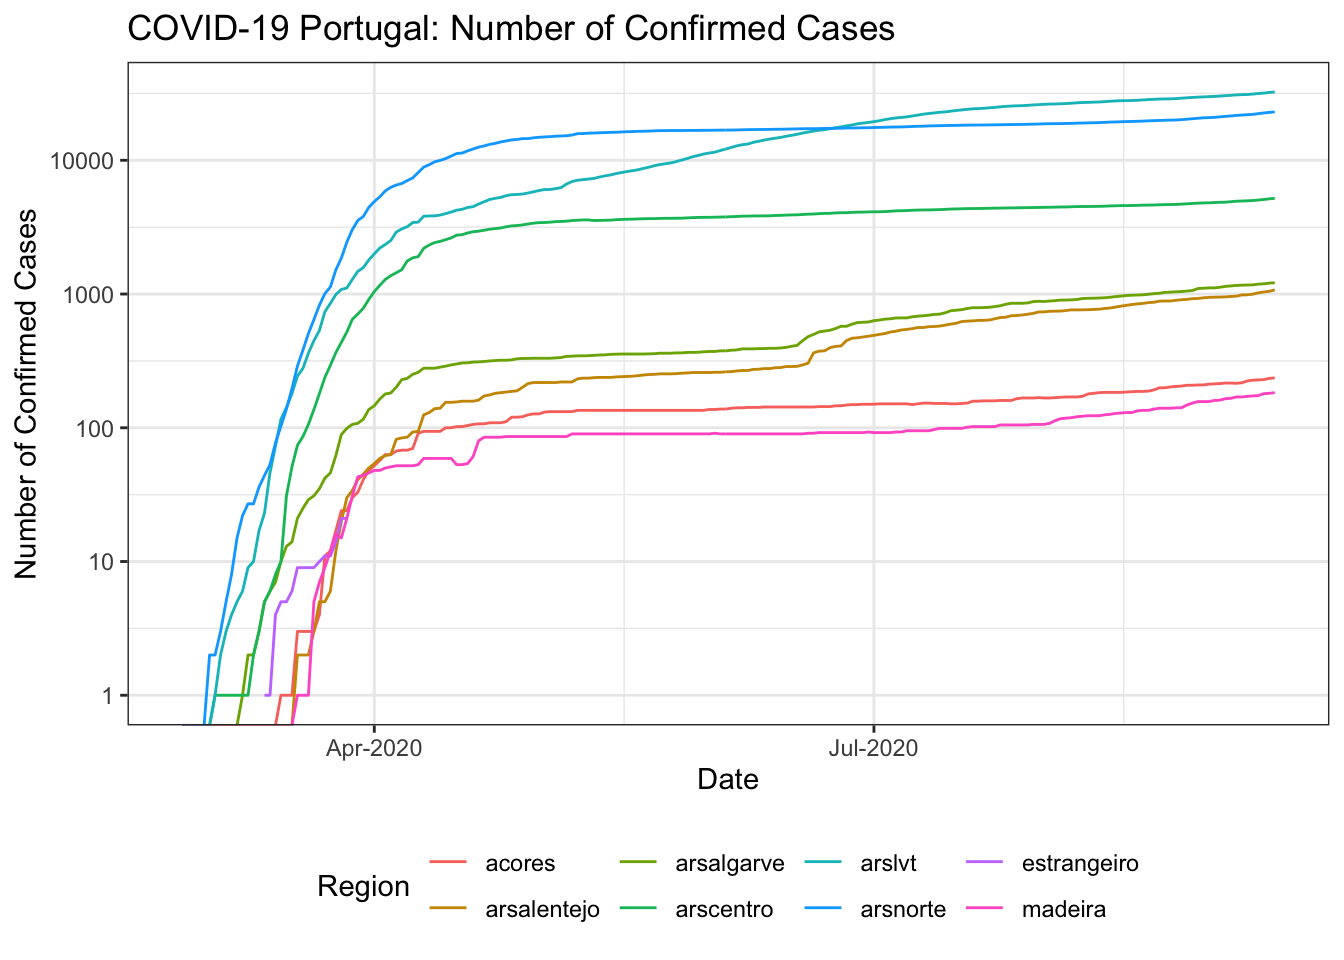
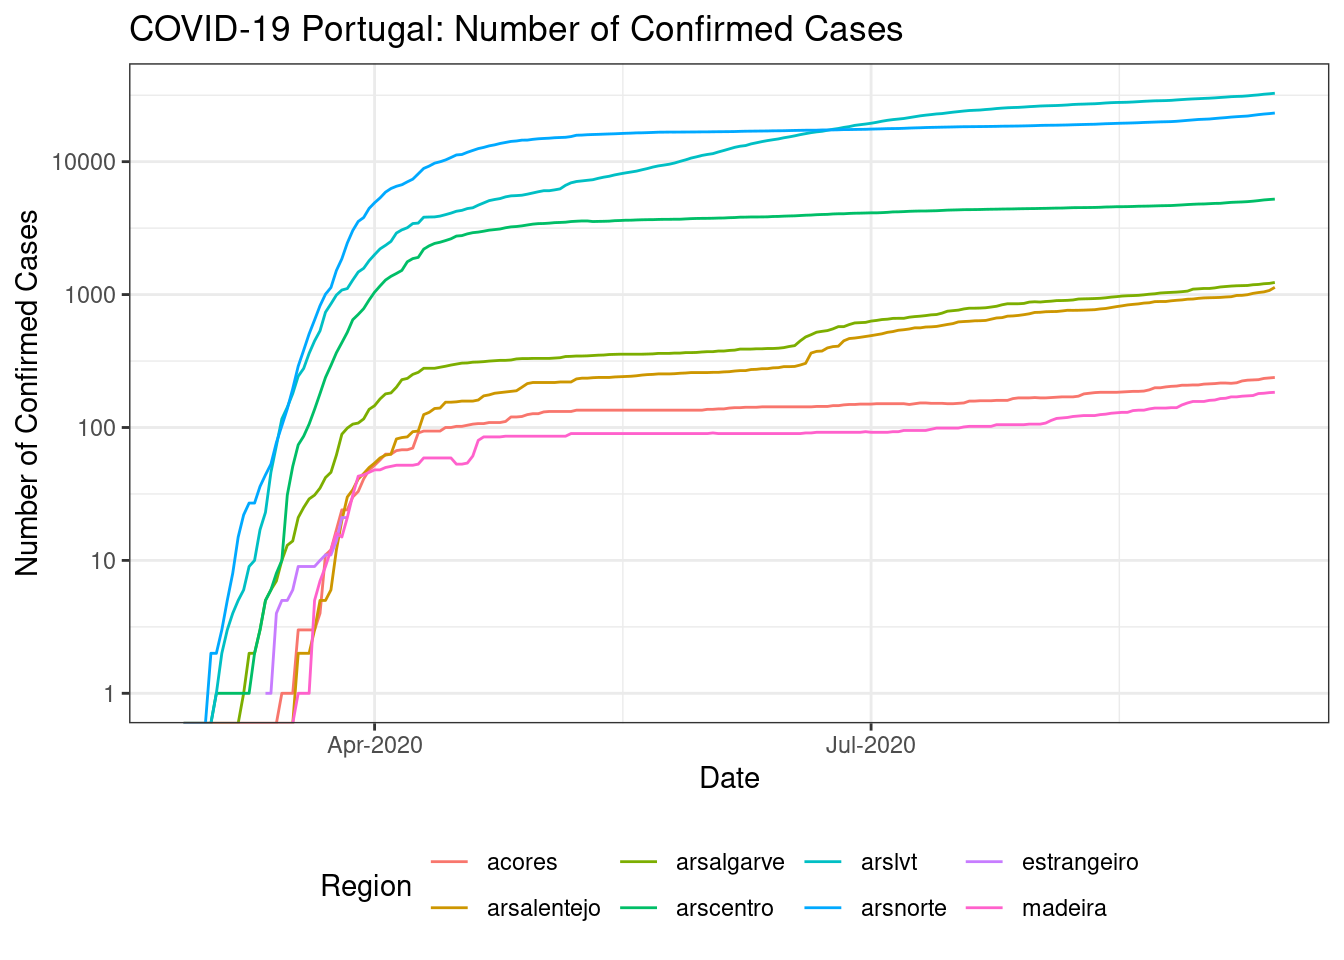
Manuel udpate due to data release delay

diff --git a/README.md b/README.md
@@ -4,9 +4,9 @@ README](https://github.com/CEAUL/Dados_COVID-19_PT/workflows/Render%20README/bad
 
 ## Daily Portuguese COVID-19 Data
 
-**Last updated: Sun 13 Sep 2020 (15:26:39 UTC \[+0000\])**
+**Last updated: Mon 14 Sep 2020 (09:03:03 WEST \[+0100\])**
 
-  - Data available from **26 Feb 2020** until **12 Sep 2020** (200
+  - Data available from **26 Feb 2020** until **13 Sep 2020** (201
     days).
 
 ### Download User Friendly Version
@@ -47,7 +47,6 @@ The original data were downloaded from an API provide by VOST
 
 |            Date | Cases\_7\_Day\_Mean |        Cases |       Active |    Recovered |    Deaths |
 | --------------: | ------------------: | -----------: | -----------: | -----------: | --------: |
-| Thu 03 Sep 2020 |               340.0 | 59051 (+418) | 14795 (+222) | 42427 (+194) | 1829 (+2) |
 | Fri 04 Sep 2020 |               340.4 | 59457 (+406) | 15048 (+253) | 42576 (+149) | 1833 (+4) |
 | Sat 05 Sep 2020 |               356.4 | 59943 (+486) | 15312 (+264) | 42793 (+217) | 1838 (+5) |
 | Sun 06 Sep 2020 |               355.7 | 60258 (+315) | 15465 (+153) | 42953 (+160) | 1840 (+2) |
@@ -57,6 +56,7 @@ The original data were downloaded from an API provide by VOST
 | Thu 10 Sep 2020 |               439.3 | 62126 (+585) | 16833 (+425) | 43441 (+157) | 1852 (+3) |
 | Fri 11 Sep 2020 |               479.4 | 62813 (+687) | 17314 (+481) | 43644 (+203) | 1855 (+3) |
 | Sat 12 Sep 2020 |               481.0 | 63310 (+497) | 17556 (+242) | 43894 (+250) | 1860 (+5) |
+| Sun 13 Sep 2020 |               532.1 | 63983 (+673) | 18047 (+491) | 44069 (+175) | 1867 (+7) |
 
 Change from previous day in brackets.
 
@@ -79,19 +79,19 @@ CV <- fread(here("data", "covid19pt_DSSG_Long.csv"))
 # Looking at the data:
 tail(CV)
 ##          data   origVars   origType other symptoms sex ageGrpLower ageGrpUpper
-## 1: 2020-09-07 vigilancia vigilancia                All                        
-## 2: 2020-09-08 vigilancia vigilancia                All                        
-## 3: 2020-09-09 vigilancia vigilancia                All                        
-## 4: 2020-09-10 vigilancia vigilancia                All                        
-## 5: 2020-09-11 vigilancia vigilancia                All                        
-## 6: 2020-09-12 vigilancia vigilancia                All                        
+## 1: 2020-09-08 vigilancia vigilancia                All                        
+## 2: 2020-09-09 vigilancia vigilancia                All                        
+## 3: 2020-09-10 vigilancia vigilancia                All                        
+## 4: 2020-09-11 vigilancia vigilancia                All                        
+## 5: 2020-09-12 vigilancia vigilancia                All                        
+## 6: 2020-09-13 vigilancia vigilancia                All                        
 ##    ageGrp   region value valueUnits
-## 1:        Portugal 34336      Count
-## 2:        Portugal 34466      Count
-## 3:        Portugal 35151      Count
-## 4:        Portugal 35181      Count
-## 5:        Portugal 35712      Count
-## 6:        Portugal 36055      Count
+## 1:        Portugal 34466      Count
+## 2:        Portugal 35151      Count
+## 3:        Portugal 35181      Count
+## 4:        Portugal 35712      Count
+## 5:        Portugal 36055      Count
+## 6:        Portugal 36398      Count
 
 # Order data by original variable name and date.
 setkeyv(CV, c("origVars", "data"))
@@ -141,7 +141,7 @@ CV[origType=="confirmados" & ageGrp=="" & region!="Portugal"] %>%
     y = "Number of Confirmed Cases",
     colour = "Region")
 ## Warning: Transformation introduced infinite values in continuous y-axis
-## Warning: Removed 184 row(s) containing missing values (geom_path).
+## Warning: Removed 185 row(s) containing missing values (geom_path).
 ```
 
 <img src="README_figs/README-casesbyRegion-1.png" width="672" />
